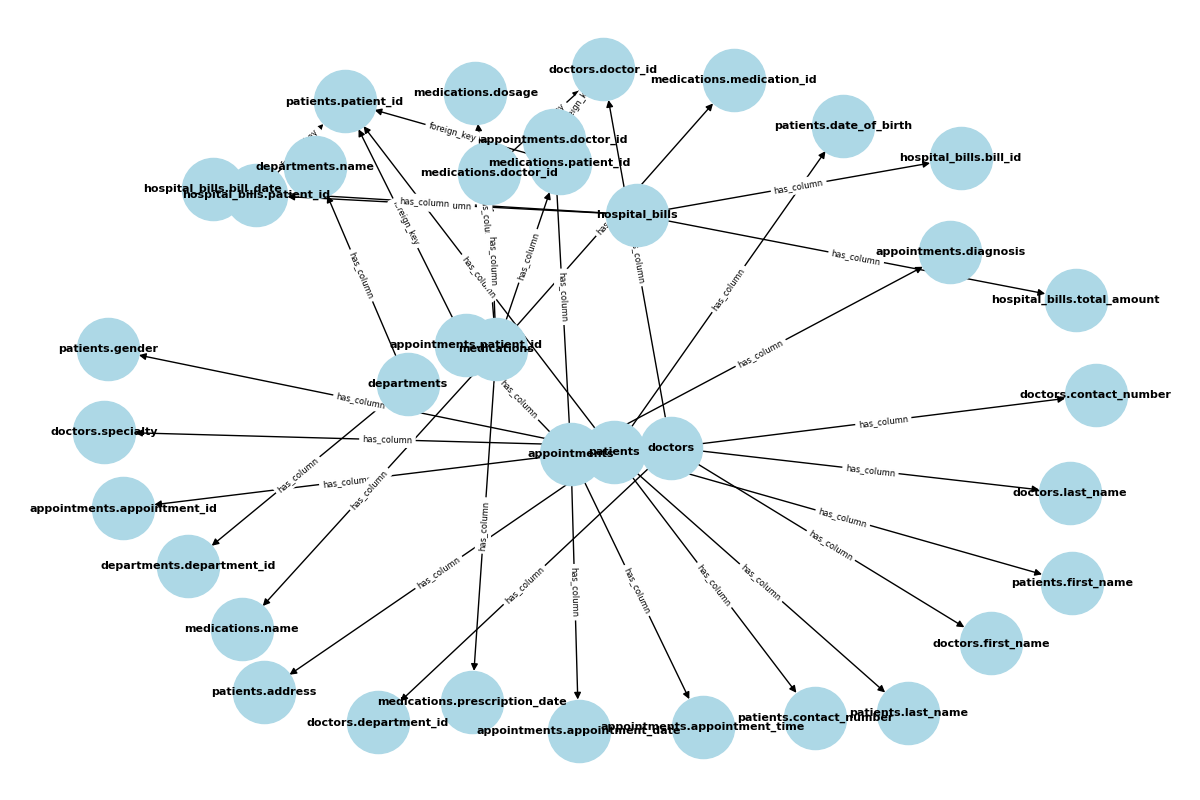
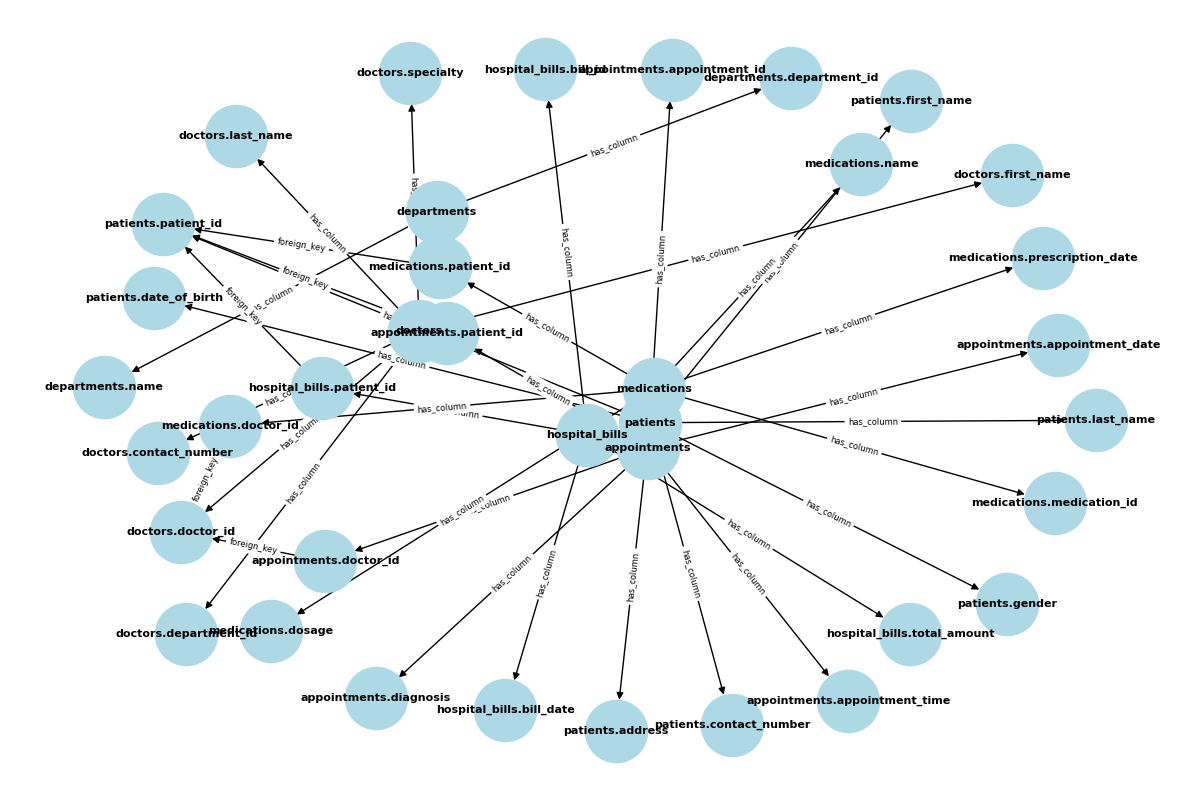
Fix API key handling and graph rendering

diff --git a/app.py b/app.py
@@ -10,7 +10,9 @@ import threading
 
 # Load your OpenAI API key from the environment.
 # Make sure you set OPENAI_API_KEY in your environment variables.
+# Load your OpenAI API key from the environment.
 openai.api_key = os.getenv("OPENAI_API_KEY")
+
 if not openai.api_key:
     raise ValueError("Please set the OPENAI_API_KEY environment variable.")
 
@@ -101,6 +103,8 @@ def index():
                 # Build a knowledge graph of the schema and generate a summary
                 schema_graph = build_schema_graph(engine)
                 schema_text = graph_summary(schema_graph)
+                import matplotlib
+                matplotlib.use("Agg")
                 import matplotlib.pyplot as plt
 
                 plt.figure(figsize=(12, 8))
